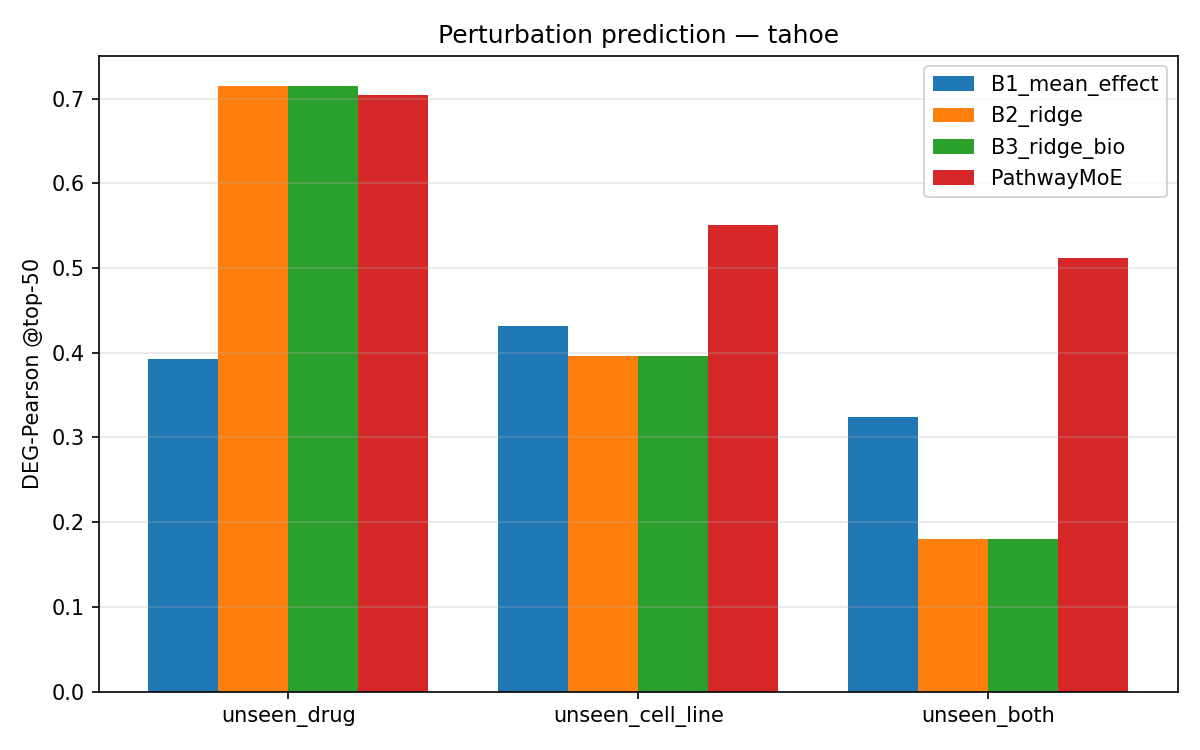
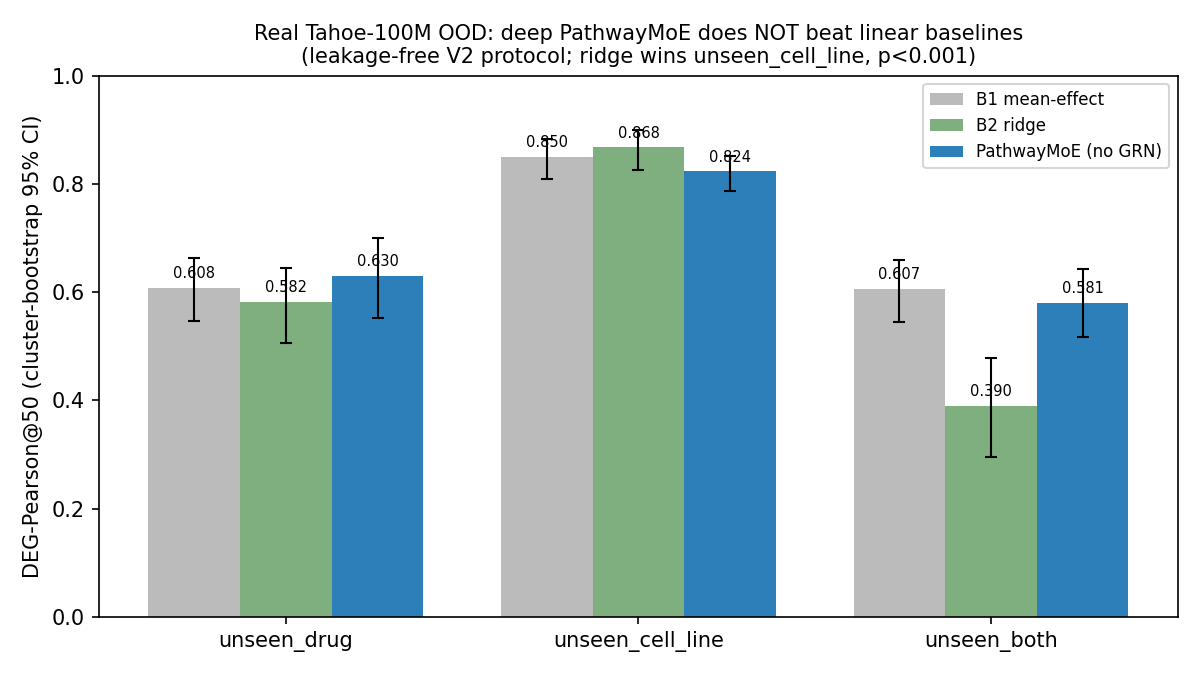
Regenerate fig_comparison_tahoe.png from leakage-free results (honest)
The old figure used V1 comparison_tahoe.json (leakage, corrupted-low baselines) and
showed PathwayMoE 'winning'. Redrawn from study_tahoe_full_v2.json: deep model ties on
unseen_drug, loses to ridge on unseen_cell_line, ties mean-effect on unseen_both.

diff --git a/code/figure_comparison_clean.py b/code/figure_comparison_clean.py
@@ -1,0 +1,58 @@
+"""Regenerate fig_comparison_tahoe.png from the leakage-free study_tahoe_full_v2.json.
+
+The old fig_comparison_tahoe.png was built from the V1 comparison_tahoe.json with
+HVG-leakage and corrupted-low baselines (it showed PathwayMoE 'winning' on the OOD
+splits). This redraws B1/B2 vs PathwayMoE(no-GRN) from the clean V2 results, with
+cluster-bootstrap CIs, so the figure matches REAL_TAHOE_OOD_AUDIT.md.
+"""
+import json
+
+import matplotlib
+matplotlib.use("Agg")
+import matplotlib.pyplot as plt
+import numpy as np
+
+from pmoe.config import RESULTS_DIR
+
+SPLITS = ["unseen_drug", "unseen_cell_line", "unseen_both"]
+
+
+def main():
+    d = json.loads((RESULTS_DIR / "study_tahoe_full_v2.json").read_text())["splits"]
+    series = [("B1 mean-effect", "baselines", "B1_mean_effect", "#bbbbbb"),
+              ("B2 ridge", "baselines", "B2_ridge", "#7fae7f"),
+              ("PathwayMoE (no GRN)", "model", "none", "#2c7fb8")]
+
+    fig, ax = plt.subplots(figsize=(8, 4.5))
+    x = np.arange(len(SPLITS)); w = 0.26
+    for i, (label, sect, key, color) in enumerate(series):
+        means, los, his = [], [], []
+        for s in SPLITS:
+            o = d[s][sect].get(key, {})
+            m = o.get("deg50", np.nan); ci = o.get("ci", [np.nan, np.nan])
+            means.append(m); los.append(m - ci[0]); his.append(ci[1] - m)
+        ax.bar(x + (i - 1) * w, means, w, label=label, color=color,
+               yerr=[los, his], capsize=3, error_kw=dict(lw=1))
+        for xi, m in zip(x + (i - 1) * w, means):
+            if not np.isnan(m):
+                ax.text(xi, m + 0.012, f"{m:.3f}", ha="center", va="bottom", fontsize=7)
+
+    ax.set_xticks(x); ax.set_xticklabels(SPLITS)
+    ax.set_ylabel("DEG-Pearson@50 (cluster-bootstrap 95% CI)")
+    ax.set_ylim(0, 1.0)
+    ax.set_title("Real Tahoe-100M OOD: deep PathwayMoE does NOT beat linear baselines\n"
+                 "(leakage-free V2 protocol; ridge wins unseen_cell_line, p<0.001)", fontsize=10)
+    ax.legend(fontsize=8, loc="upper right")
+    f = RESULTS_DIR / "fig_comparison_tahoe.png"
+    fig.tight_layout(); fig.savefig(f, dpi=150)
+    print(f"wrote {f}")
+    # print the values plotted for the record
+    for s in SPLITS:
+        b1 = d[s]["baselines"]["B1_mean_effect"]["deg50"]
+        b2 = d[s]["baselines"]["B2_ridge"]["deg50"]
+        mo = d[s]["model"]["none"]["deg50"]
+        print(f"  {s:18s} B1={b1:.3f} B2={b2:.3f} MoE={mo:.3f}")
+
+
+if __name__ == "__main__":
+    main()
